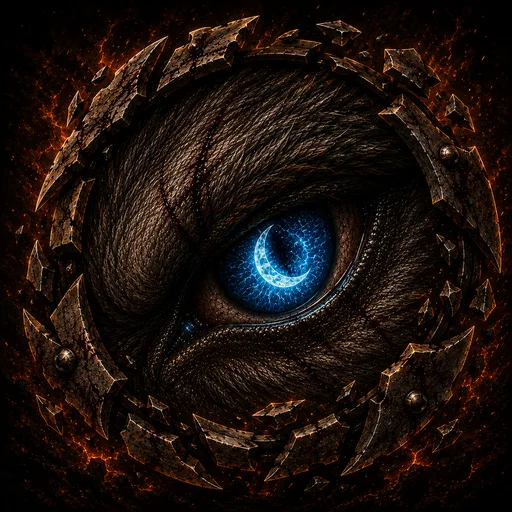
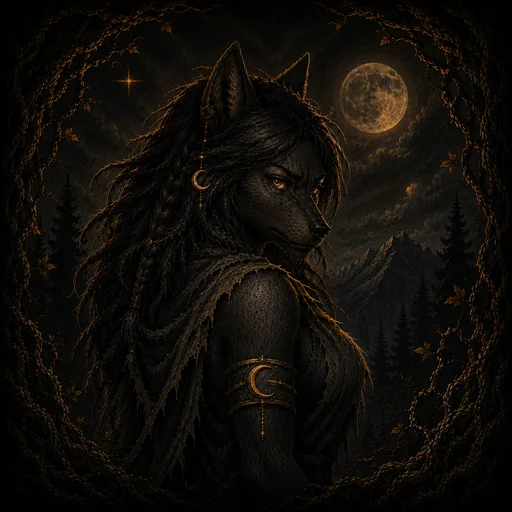
Retratos novos de Lumni e Luna, cache de arte no v22

diff --git a/src/models/repositories/art.repository.ts b/src/models/repositories/art.repository.ts
@@ -20,7 +20,7 @@ const STORE_ROOT = "store";
 
 const IMAGE_EXTENSIONS = new Set([".png", ".webp", ".gif", ".jpg", ".jpeg", ".svg", ".avif"]);
 
-const ART_VERSION = "?v=21";
+const ART_VERSION = "?v=22";
 
 const ITEM_IDS = new Set(ITEMS.map((item) => item.id));
 const SET_ALIASES: Record<string, string> = {
